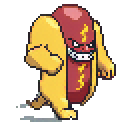
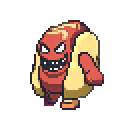
Portion Control: Konami cast complete - Big Frank re-roll + handover
Big Frank boss frames re-rolled in the ARTDNA style (64 native,
pixel-doubled to 128), completing the full District 1 Konami-shaded
set with Mark's chosen Danny #1. Verified in-game at 59fps with the
new cast, wobble and knockback live, zero errors.

Claude-Session: https://claude.ai/code/session_01DiqdV7LnGuQyACKzwJw41f

diff --git a/HANDOVER.md b/HANDOVER.md
@@ -12,6 +12,16 @@
 
 ## WHERE WE ARE (latest first)
 
+- **2026-07-22 — KONAMI CAST COMPLETE: Mark picked Danny #1.**
+  From a 6-candidate lineup (all in the rev-2 outfit) Mark chose #1
+  (crouched firing pose, coat flare). Walk cycle (3 pose gens via
+  init chain, stride/together/stride/together) + 96px portrait built
+  from that exact sprite, native 48. Full D1 cast re-rolled in ARTDNA
+  Konami style (style suffix v2, selective outline, shading tier by
+  size, anti-chibi negatives): all 5 enemies x2 frames, 5 stills,
+  Big Frank x4 (64 -> x2 to 128). Verified in-game: complete new-
+  style swarm at 59fps, wobble + knockback live, zero errors.
+  **Next: M4 level-up cards** (unchanged).
 - **2026-07-22 — ART DIRECTION SHIFT: chibi -> 90s-Konami shaded
   (Mark round 4 + his VS Art DNA guide, now `ARTDNA.md` - art law,
   wins over COMPENDIUM on art).** Size stays 48px (option B locked).
